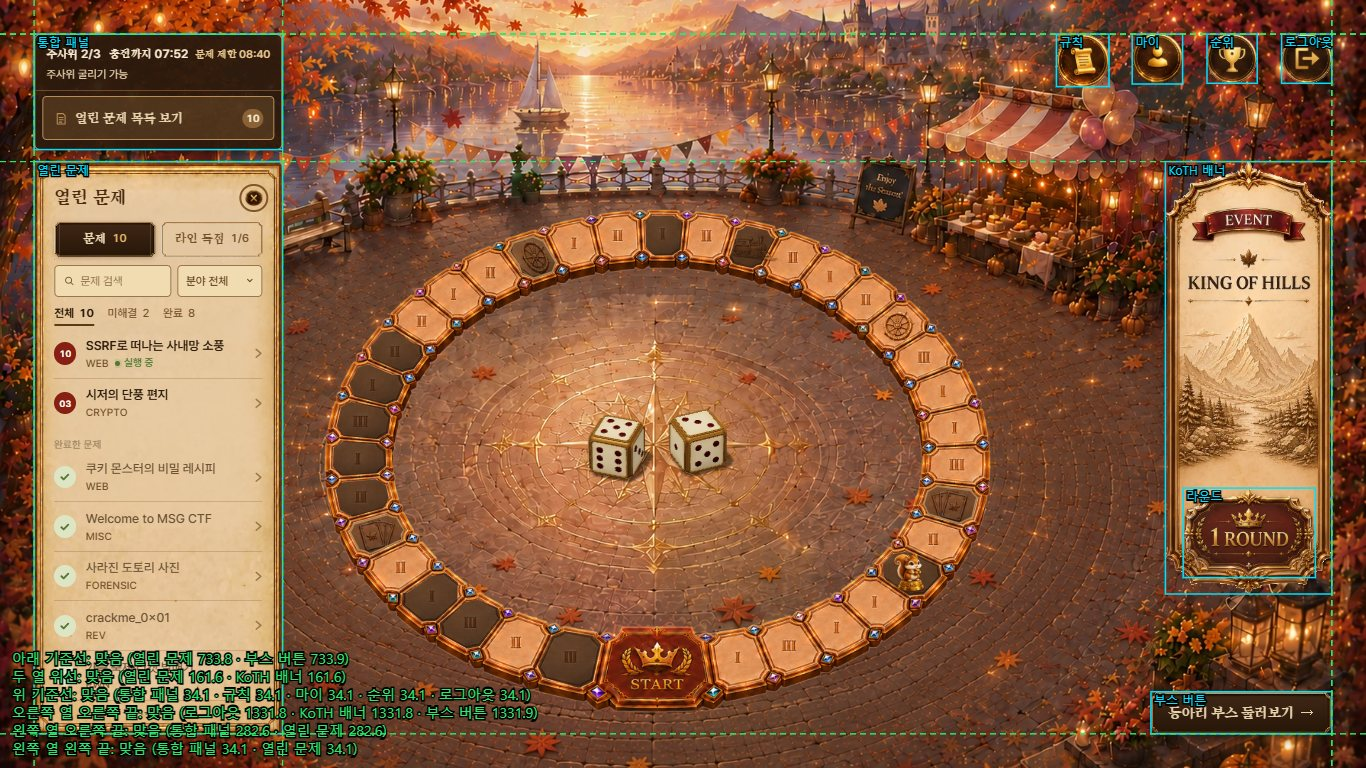
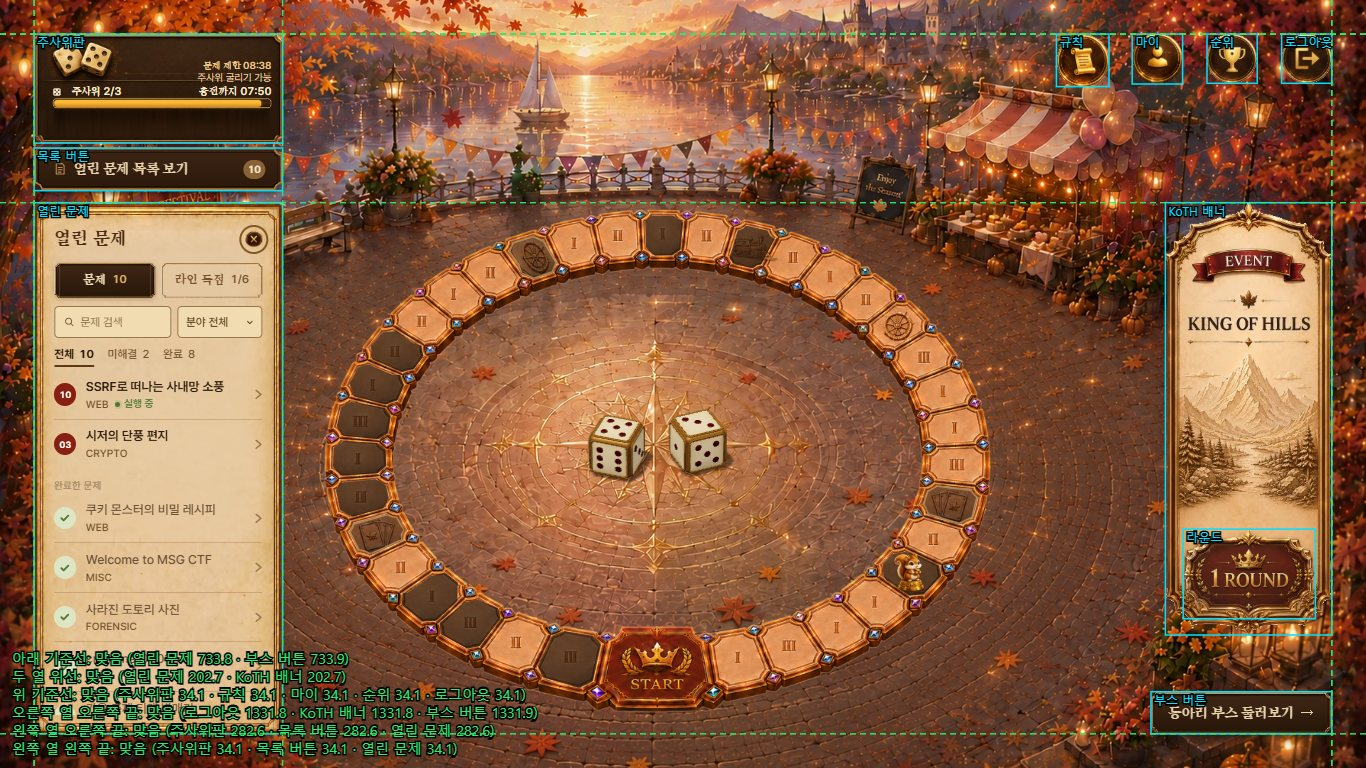
docs: 경기 화면 QA 문서를 main 9423387 합친 상태로 갱신
- 좌상단 통합 패널 설명을 세 플레이트(Figma 3:2) 기준으로 바꿈
- 부스 바로 제출 항목을 문제가 여럿인 부스 항목으로 바꿈
- 전 그림은 지금 main, 후 그림은 합친 뒤 캡처로 다시 만듦

Changed region(s): [[0.0, 0.0312, 0.3997, 1.0], [0.8302, 0.1875, 0.9839, 0.8438]]

diff --git a/docs/game-screen-qa.md b/docs/game-screen-qa.md
@@ -1,20 +1,20 @@
 # 경기 화면 QA
 
-참가자 경기 화면을 하나씩 열어 정렬선, 화면 비율, 기다리는 화면을 맞춘 기록이다 화면 캡처는 목 서버 데이터다
+참가자 경기 화면을 하나씩 열어 정렬선, 화면 비율, 기다리는 화면을 맞춘 기록이다 화면 캡처는 목 서버 데이터이고 전 그림은 main 9423387 이다
 
 ## 2026-10-23 · 보드 정렬선
 
 화면 바깥 여백선은 가로 2.5%, 세로 4.444%로 네 변을 맞췄다 1920x1080 에서는 모두 48px 다
 그림 파일에는 투명 여백이 있어서 상자가 아니라 실제로 보이는 그림 경계를 기준으로 맞췄다
 
-- 왼쪽 열: 좌상단 통합 패널(주사위 상태, 보유 찬스카드, 열린 문제 목록 버튼, Figma 753:300)과 그 아래 열린 문제 패널을 같은 폭으로 쌓고 사이 간격을 오른쪽 열과 같게 둔다
+- 왼쪽 열: 좌상단 세 플레이트(주사위 상태, 보유 찬스카드, 열린 문제 목록 버튼, Figma 3:2)와 그 아래 열린 문제 패널을 같은 폭으로 쌓고 사이 간격을 오른쪽 열과 같게 둔다 플레이트 모양은 Figma 그대로이고 자리만 여백선으로 옮겼다
 - 오른쪽 열: 동전 네 개, KoTH 배너, 동아리 부스 버튼의 보이는 오른쪽 끝을 한 선에 둔다
-- 두 열 위선: KoTH 배너 위 끝은 열린 문제 패널 위선과 같다 통합 패널 높이는 안내 문구와 화면 크기에 따라 달라서 BoardScreen 이 찬스카드 목록을 뺀 높이를 재어 --left-card-height 로 넘긴다
-- 위 여백선에는 통합 패널과 동전 네 개, 아래 여백선에는 열린 문제 패널과 동아리 부스 버튼이 닿는다
-- 통합 패널 열은 비어 있는 곳의 보드 클릭을 막지 않는다
+- 두 열 위선: KoTH 배너 위 끝은 열린 문제 패널 위선과 같다 패널을 열면 보유 찬스카드는 가려지고, 주사위 플레이트와 목록 버튼 높이는 안내 문구와 화면 크기에 따라 달라서 BoardScreen 이 두 플레이트 높이를 재어 --left-card-height 로 넘긴다
+- 위 여백선에는 주사위 플레이트와 동전 네 개, 아래 여백선에는 열린 문제 패널과 동아리 부스 버튼이 닿는다
+- 왼쪽 열은 비어 있는 곳의 보드 클릭을 막지 않는다
 
 16:9 보다 세로로 길거나(5:4, 4:3) 가로로 긴(21:9) 화면은 보드만 가운데 16:9 무대에 두고, 고정 UI 는 남는 폭과 높이만큼 바깥으로 밀어 실제 화면 모서리의 여백선에 붙였다
-예전에는 1280x1024 에서 위아래 150px 가 비고 열린 문제 목록이 패널 밖으로 잘렸다
+지금 main 은 1280x1024 에서 위아래 150px 가 비고 열린 문제 패널에 목록이 거의 보이지 않는다
 
 | 전 | 후 |
 | --- | --- |
@@ -46,7 +46,7 @@
 - 검색칸과 분야 칸은 문제 상세의 플래그 입력칸과 같은 색과 테두리, 풀이 상태는 글자와 밑줄로 고른다
 - 글꼴은 제목과 탭만 Song Myung, 나머지는 모두 Pretendard 다 번호 도장은 Figma 배지의 적갈색 단색 원이다
 - 데스크톱은 패널 폭에 비례하는 기준 글자(1920x1080 에서 약 18px, 1366x768 에서 약 13px) 하나를 따라 창 크기를 바꿔도 구성이 그대로다 아주 좁은 화면에서만 12px 아래로 내려가지 않게 막았다 휴대폰은 16px 로 고정한다
-- 데스크톱 패널 폭은 통합 패널과 같은 max(18.2%, 240px) 다
+- 데스크톱 패널 폭은 세 플레이트와 같은 max(18.2%, 240px) 다
 - 손가락 기기는 스크롤바 자리를 비우지 않아 목록 끝선이 탭, 검색 줄과 같다 입력칸 글자는 iOS 확대를 막으려고 16px 이다
 
 ![데스크톱과 휴대폰](images/game/open-panel-devices.jpg)
@@ -66,17 +66,17 @@
 
 ![열린 문제 패널 안쪽 끝선](images/game/open-panel-guides.jpg)
 
-## 2026-10-23 · 부스 메뉴판에서 바로 제출
+## 2026-10-24 · 문제가 여럿인 부스
 
-부스 메뉴판에서 플래그 제출하기를 누르면 문제 상세 페이지로 한 번 더 넘어가야 했다 이제 메뉴판 아래 종이 띠에서 바로 낸다
+main 에서 부스 메뉴판이 바로 제출로 바뀌고 상세 페이지가 빠졌는데, 메뉴판은 그 부스의 첫 문제만 보여서 목 데이터의 SWING, CodeCure 처럼 문제가 둘인 부스는 둘째 문제를 열 길이 없었다
 
-- 띠에는 플래그 입력칸과 제출 단추, 팀 점수에만 반영된다는 안내만 둔다 오답, 3회 오답 뒤 대기, 정답을 그 자리에서 알린다
-- 정답이면 띠가 풀이 완료로 바뀌고, 축제장 목록을 비우지 않고 다시 읽어 부스 진행과 스탬프를 바로 바꾼다
 - 문제가 여럿인 부스는 MENU 자리에 메뉴 단추를 두고 아직 못 푼 문제부터 연다 푼 메뉴에는 체크를 단다
-- 관리자 시그니처 미리보기와 개발 미리보기는 같은 띠를 잠근 채 보인다
-- 상세 페이지(/signatures/:id)는 그대로 두었고 주소로 들어가면 쓸 수 있다
+- 메뉴 단추 줄은 MENU 줄과 높이를 맞춰 설명이 더 가려지지 않게 했고 누르는 자리만 넓혔다
+- 정답이면 축제장 목록을 비우지 않고 다시 읽어 부스 진행과 메뉴 체크를 바로 바꾼다
+- 메뉴를 바꾸면 초점은 고른 메뉴 단추에 남는다
+- 관리자 시그니처 미리보기도 고른 문제를 먼저 보이고 메뉴를 바꿔 볼 수 있다
 
-![부스 메뉴판에서 바로 제출](images/game/booth-inline-flag.jpg)
+![문제가 여럿인 부스](images/game/booth-menus.jpg)
 
 ## 2026-10-23 · 보드 위 종이 창
 
@@ -87,7 +87,7 @@
 - 황금열쇠 카드는 다른 창과 같은 닫기 그림을 쓰고 카드 아래 확인 명판으로도 닫는다 큰 화면에서는 카드를 키웠다
 - 휴대폰 룰렛은 같은 종이를 쓴다 데스크톱 룰렛은 Figma 그림 그대로다
 - 기차여행으로 갈 수 있는 칸은 금빛으로 밝히고 천천히 숨 쉬게 했다 움직임 줄이기 설정에서는 멈춘다
-- 보유 찬스카드는 통합 패널 안의 어두운 모양을 그대로 쓴다
+- 보유 찬스카드는 Figma 플레이트의 어두운 모양을 그대로 쓴다
 
 ![보드 위 종이 창 전후](images/game/event-sheets.jpg)
 
